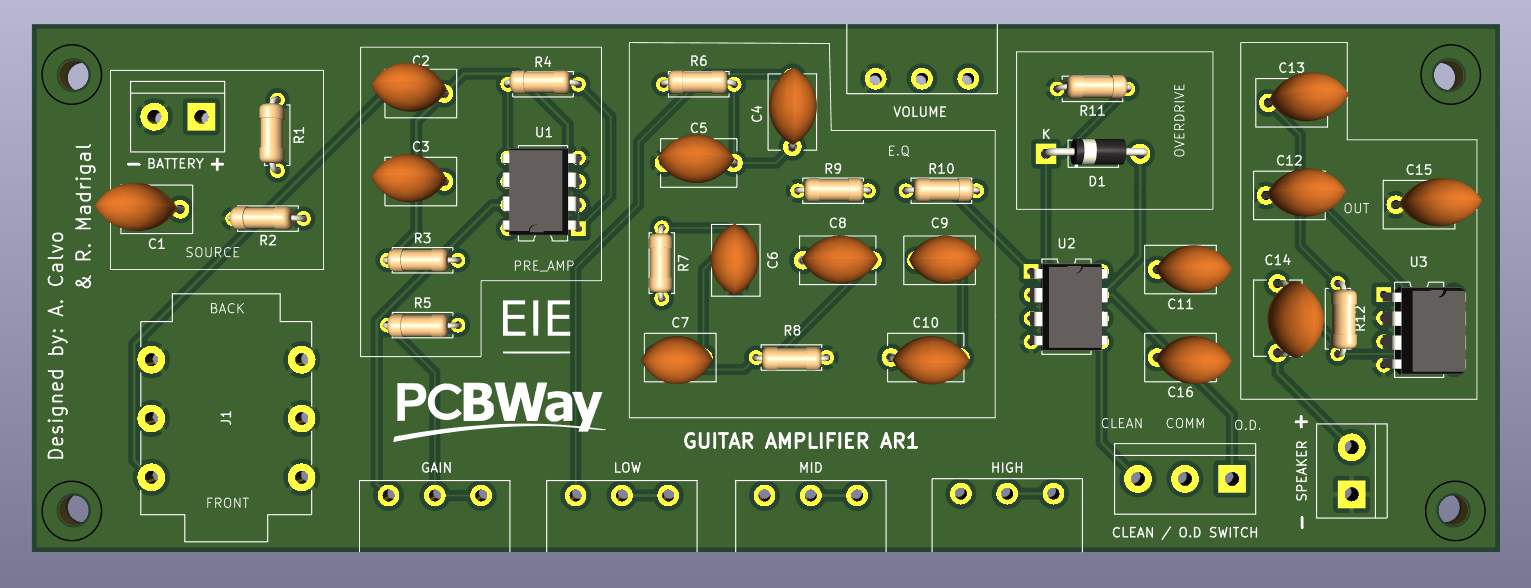
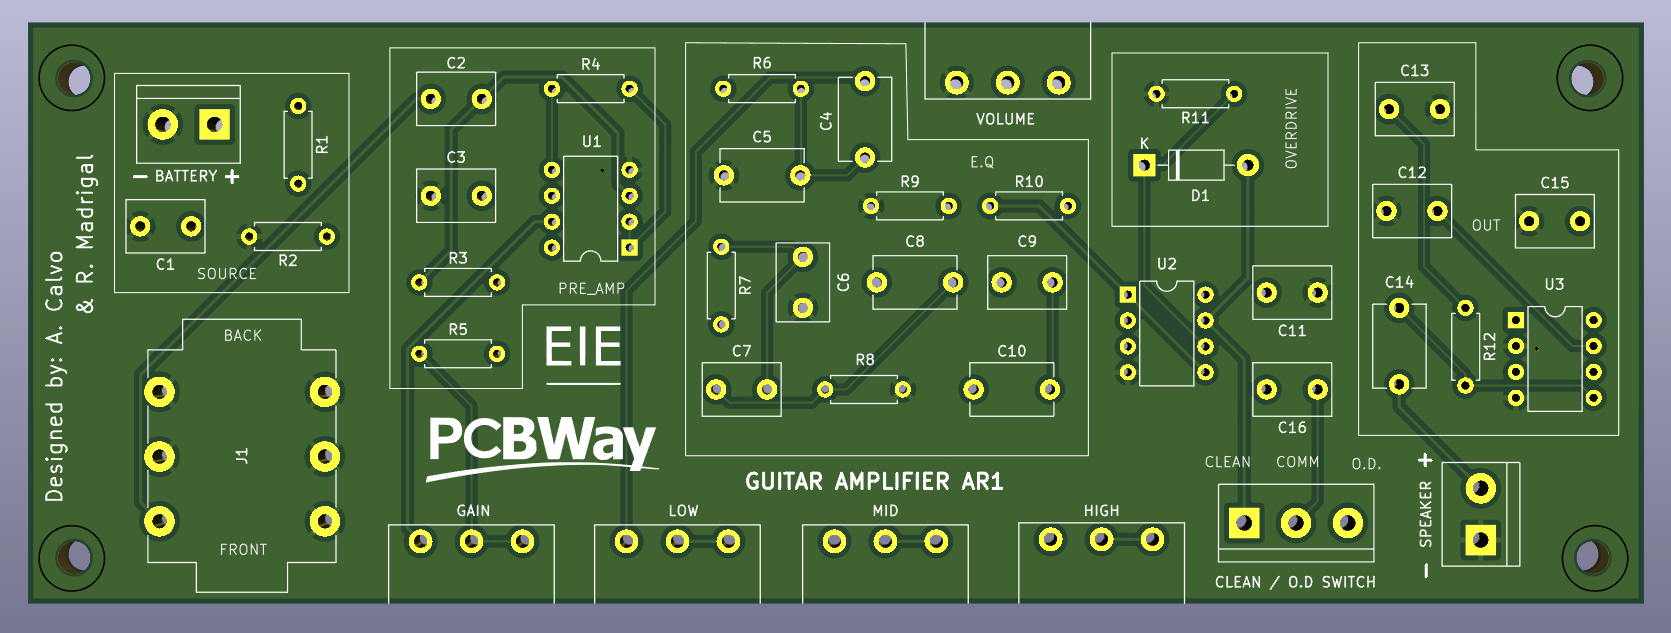
Agregando imagenes con modelos 3D en el README.md

Changed region(s): [[0.0, 0.0306, 1.0, 0.9796]]

diff --git a/README.md b/README.md
@@ -167,11 +167,11 @@ Una vez definido el circuito final, se diseñó la PCB en *KiCad* con una arquit
 
 </div>
 
-Además, se agregaron zonas de serigrafía, agujeros de montaje, así como textos identificativos y logotipos en el *silkscreen* con el nombre del proyecto y los autores.
+Además, se agregaron zonas de serigrafía, agujeros de montaje, así como textos identificativos y logotipos en el *silkscreen* con el nombre del proyecto y los autores. Como resultado final se muestra la PCB en el visor 3D de *KiCad* con y sin los modelos 3D 
 
 <div align="center">
 
-| ![Vista 3D Frontal de la PCB](images/Vista3DSuperior.png) |
+| ![Vista 3D Frontal de la PCB sin 3D](images/Vista3DSuperior.png) |
 |:--:|
 | *Vista 3D Frontal de la PCB en KiCad* |
 
@@ -179,8 +179,32 @@ Además, se agregaron zonas de serigrafía, agujeros de montaje, así como texto
 
 <div align="center">
 
-| ![Vista 3D Trasera de la PCB](images/Vista3DInferior.png) |
+| ![Vista 3D Trasera de la PCB sin 3D](images/Vista3DInferior.png) |
 |:--:|
 | *Vista 3D Trasera de la PCB en KiCad* |
+
+</div>
+
+<div align="center">
+
+| ![Vista 3D Frontal de la PCB con 3D](images/VistaModelos3DSuperior.png) |
+|:--:|
+| *Vista 3D Frontal de la PCB en KiCad con modelos 3D* |
+
+</div>
+
+<div align="center">
+
+| ![Vista 3D Lateral Izquierda de la PCB con 3D](images/VistaModelos3DLateral.png) |
+|:--:|
+| *Vista 3D Lateral Izquierda de la PCB en KiCad con modelos 3D* |
+
+</div>
+
+<div align="center">
+
+| ![Vista 3D Lateral Derecha de la PCB con 3D](images/VistaModelos3DLateral2.png) |
+|:--:|
+| *Vista 3D Lateral Derecha de la PCB en KiCad con modelos 3D* |
 
 </div>
